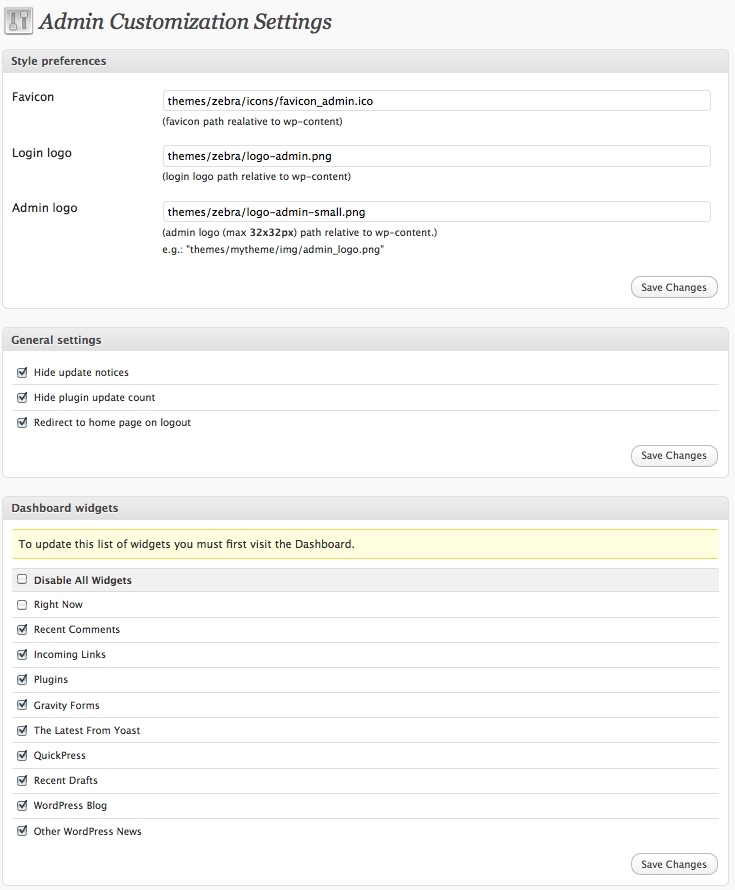
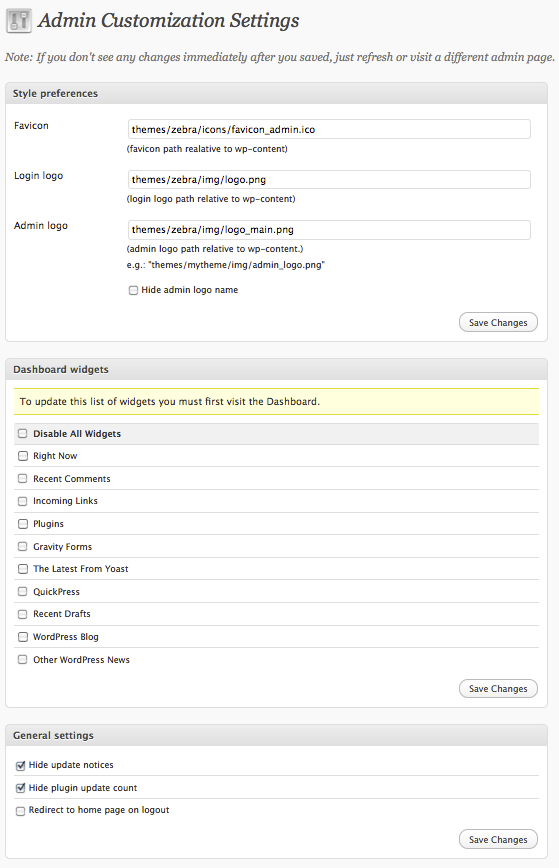
v1.2

diff --git a/admin/admin.php b/admin/admin.php
@@ -17,7 +17,12 @@ class AC_Settings extends scbBoxesPage {
 			array( 'general_settings', __( 'General settings', $this->textdomain ), 'normal' ),
 		);
 	}
-	
+	function page_header() {
+		echo "<div class='wrap'>\n";
+		screen_icon();
+		echo "<h2>" . $this->args['page_title'] . "</h2>\n";
+		echo '<p class="note">' . __( 'Note: If you don\'t see any changes immediately after you saved, just refresh or visit a different admin page.', $this->textdomain ) . "<p>";
+	}
 	function general_settings_box() {
 		$output = '';
 		$checkboxes = array(
@@ -34,16 +39,16 @@ class AC_Settings extends scbBoxesPage {
 		foreach ( $checkboxes as $name => $args )
 		{
 		$output .= html( 'tr',
-				html( 'th scope="row" class="check-column"',
+				html( 'td',
 					$this->input( array(
 						'type' => 'checkbox',
 						'name' => 'general[]',
 						'value' => $args['value'],
-						'desc' => false,
+						'desc' => $name,
 						'checked' => in_array( $args['value'], (array) $this->options->general_settings ),
 					) )
 				)
-				.html( 'td', $name ));
+				);
 				
 		}
 		
@@ -54,7 +59,7 @@ class AC_Settings extends scbBoxesPage {
 		if ( !isset( $_POST['general_preferences_button'] ) )
 			return;
 			
-		$this->admin_msg( __( 'General settings saved. You may need to refresh to see the changes.', $this->textdomain ) );
+		$this->admin_msg( __( 'General settings saved. <strong>You need to refresh to see the changes.</strong>', $this->textdomain ) );
 		$this->options->general_settings = (array) @$_POST['general'];
 	}
 
@@ -78,12 +83,21 @@ class AC_Settings extends scbBoxesPage {
 
 			array(
 				'title' => __( 'Admin logo ', $this->textdomain ),
-				'desc' => __( '(admin logo (max <strong>32x32px</strong>) path relative to wp-content.)<br />e.g.: "themes/mytheme/img/admin_logo.png"', $this->textdomain ),
+				'desc' => __( '(admin logo path relative to wp-content.)<br />e.g.: "themes/mytheme/img/admin_logo.png"', $this->textdomain ),
 				'type' => 'text',
 				'name' => 'admin_logo',
 				'value' => implode( ', ', (array) $this->options->admin_logo )
+			),
+			array(
+				'title' => false,
+				'type' => 'checkbox',
+				'name' => 'style_settings[]',
+				'value' => 'hide_logo_name',
+				'desc' => __( 'Hide admin logo name', $this->textdomain ),
+				'checked' => in_array( 'hide_logo_name', (array) $this->options->style_settings )
 			)
-		) );
+		) ); 
+				
 		// same as $this->form_wrap( $output, '', 'style_preferences_button');
 		echo $this->form_wrap( $output, array('action' => 'style_preferences_button'));
 	}
@@ -92,14 +106,14 @@ class AC_Settings extends scbBoxesPage {
 		if ( !isset( $_POST['style_preferences_button'] ) )
 			return;
 		
-		$this->admin_msg( __( 'Style preferences changes saved. You may need to refresh to see the changes.', $this->textdomain ) );
+		$this->admin_msg( __( 'Style preferences changes saved. <strong>You need to refresh to see the changes.</strong>', $this->textdomain ) );
 		
-		foreach ( array( 'favicon', 'login_logo', 'admin_logo' ) as $key )
+		foreach ( array( 'favicon', 'login_logo', 'admin_logo', 'style_settings' ) as $key )
 			$this->options->$key = @$_POST[$key];
 	}
 
 	function dashboard_settings_box() {
-		$output = '<p class="updated">' . __( 'To update this list of widgets you must first visit the Dashboard.', $this->textdomain ) . '<p>'.
+		$output = '<p class="updated">' . __( 'To update this list of widgets you must first visit the Dashboard.', $this->textdomain ) . '<p>' .
 			$this->_widget_table(__( 'Disable All Widgets', $this->textdomain ), $this->options->widgets);
 
 		// same as $this->form_wrap( $output, '', 'dashboard_settings_button');
@@ -142,7 +156,7 @@ class AC_Settings extends scbBoxesPage {
 	width: 20%;
 	max-width: 200px;
 	padding: 10px 0 !important;
-	font-size: 13px;
+	font-size: 12px;
 }
 .inside .widefat .check-column {
 	padding-bottom: 7px !important;
@@ -158,6 +172,7 @@ class AC_Settings extends scbBoxesPage {
 .inside table.checklist {
 	clear: none;
 	margin-right: 1em !important;
+	line-height: 1.6em;
 }
 
 .inside .checklist th input {
@@ -196,10 +211,18 @@ p.updated {
 	padding: 0.6em;
 	background-color: #FFFFE0;
     border-color: #E6DB55;
-    border-radius: 3px 3px 3px 3px;
     border-style: solid;
     border-width: 1px 0 1px 0;
-    
+}
+#style_preferences table tbody > :last-child * {
+	padding-top: 3px !important;
+}
+.note {
+	font-size: 1.2em;
+	font-style: italic;
+	color: #777;
+	font-family: Georgia,"Times New Roman","Bitstream Charter",Times,serif;
+	margin-bottom: 0;
 }
 </style>
 <?php 
@@ -207,8 +230,8 @@ p.updated {
 	private function _checklist_wrap( $title, $tbody ) {
 		$thead =
 		html( 'tr',
-			 html( 'th scope="col" class="check-column"', '<input type="checkbox" />' )
-			.html( 'th scope="col"', $title )
+			 html( 'th scope="col" class="check-column"', '<input id="' . sanitize_title_with_dashes( $title ) . '" type="checkbox" />' )
+			.html( 'th scope="col"', '<label for=' . sanitize_title_with_dashes( $title ) . '>' . $title . '</label>' )
 		);
 	 
 		$table =
@@ -233,10 +256,11 @@ p.updated {
 						'name' => 'widgets[]',
 						'value' => $widget['id'],
 						'desc' => false,
+						'extra' => array( 'id' => $widget['id'] ),
 						'checked' => in_array( $widget['id'], (array) $this->options->disabled_widgets ),
 					) )
 				)
-				.html( 'td', $widget['title'] )
+				.html( 'td', '<label for=' . $widget['id'] . '>' . $widget['title'] . '</label>')
 			);
 		}
 		return $this->_checklist_wrap( $title, $tbody );

diff --git a/core.php b/core.php
@@ -17,12 +17,12 @@ class AC_Core {
 //		global $current_user;	
 //		get_currentuserinfo();
 //		if ($current_user->user_login != 'admin')
-		if ( in_array( 'hide_update_notices', self::$options->general_settings ) )
+		if ( in_array( 'hide_update_notices', (array) self::$options->general_settings ) )
 			remove_action('admin_notices', 'update_nag', 3);	
 	}
 	
 	function ac_remove_plugin_update_count() {
-		if ( in_array( 'hide_plugin_count', self::$options->general_settings ) )
+		if ( in_array( 'hide_plugin_count', (array) self::$options->general_settings ) )
 		{
 			global $menu, $submenu;
 		 
@@ -32,7 +32,7 @@ class AC_Core {
 	}
 	
 	function ac_redirect_on_logout($links) {
-		if ( in_array( 'redirect_on_logout', self::$options->general_settings ) ) {
+		if ( in_array( 'redirect_on_logout', (array) self::$options->general_settings ) ) {
 			$links[15] = '| <a href="' . wp_logout_url( home_url() ) . '" title="Log Out">Log Out</a>';
 		}
 			return $links;
@@ -44,36 +44,63 @@ class AC_Core {
 		if ( !empty( self::$options->favicon ) )
 			echo '<link rel="shortcut icon" href="' . get_bloginfo('home') . '/wp-content/' . self::$options->favicon . '" />';
 		
+		$site_title_styles = array();
+		
 		// Backend logo
+		if ( in_array( 'hide_logo_name', (array) self::$options->style_settings ) )
+		{
+			array_push( $site_title_styles, 'text-indent: -9999em;' );
+		}
+		
 		if ( !empty( self::$options->admin_logo ) )	{
 			$logo_path = get_bloginfo( 'home' ) . '/wp-content/' . self::$options->admin_logo;
 		 	$logo_size = getimagesize( $logo_path );
 			$logo_width = $logo_size[0] + 8;
 			$vertical_padding = $logo_size[1] - 26 > 0 ? round( ( $logo_size[1] - 26 ) / 2 ) : 0; 
 			$adjusted_head_height = ( $logo_size[1] + 16 < 46 ) ? 46 : $logo_size[1] + 16;
-			echo '<style type="text/css">
-			#header-logo {
+			
+			array_push( 
+				$site_title_styles, 
+				'background:url(' . get_bloginfo('home') . '/wp-content/' . self::$options->admin_logo . ') left center no-repeat !important;
+				float: left;
+          		padding:' . $vertical_padding . 'px 0 ' . $vertical_padding . 'px ' . $logo_width . 'px;'
+			);
+
+			$custom_logo_styles ='
+				#header-logo {
 				display: none !important;
 			}
-	        #site-title {
-	        	background:url(' . get_bloginfo('home') . '/wp-content/' . self::$options->admin_logo . ') left center no-repeat !important;
-				float: left;
-	          	padding:' . $vertical_padding . 'px 0 ' . $vertical_padding . 'px ' . $logo_width . 'px;
-	        }
 			#wphead {
 				height: ' . $adjusted_head_height . 'px;
 			}
 			#wphead h1 {
-				margin: 8px 0 8px 10px;
+				margin: 8px 0 8px 15px;
 				padding: 0;
 			}
 			#user_info, #user_info p {
 				line-height: ' . $adjusted_head_height . 'px;
 			}
 			#favorite-actions {
-				margin-top: '. floor ( ( $adjusted_head_height - 22 ) / 2) .'px;
+				margin-top: '. floor ( ( $adjusted_head_height - 22 ) / 2 ) .'px;
+			}';
+		}
+
+		if ( !empty( $site_title_styles ) )
+		{
+			if ( empty( $custom_logo_styles ) ) {
+				array_push( $site_title_styles, 'float: left;' );
 			}
-	       </style>';
+			
+			echo '<style type="text/css">
+				#site-title {';
+			foreach ( $site_title_styles as $rule ) {
+				echo $rule;
+			}
+			echo '}' . $custom_logo_styles; 
+			
+		
+			
+			echo '</style>';
 		}
 	}
 	

diff --git a/admin-customization.php b/admin-customization.php
@@ -1,11 +1,11 @@
 <?php
 /*
 Plugin Name: Admin Customization
-Version: 1.1
+Version: 1.2
 Description: Allows you to customize basic aspects of your Wordpress backend
 Author: Alex Ciobica
 Author URI: http://ciobi.ca/
-Plugin URI: http://wordpress.org/extend/plugins/admin-customization/
+Plugin URI: https://github.com/c10b10/wp-admin-customization/
 Text Domain: admin-customization
 Domain Path: /lang
 
@@ -48,6 +48,7 @@ function _ac_init() {
 		'widgets' => array(),
 		'disabled_widgets' => '',
 		'general_settings' => '',
+		'style_settings' => array(),
 	) );
 	
 	require_once $dir . '/core.php';
